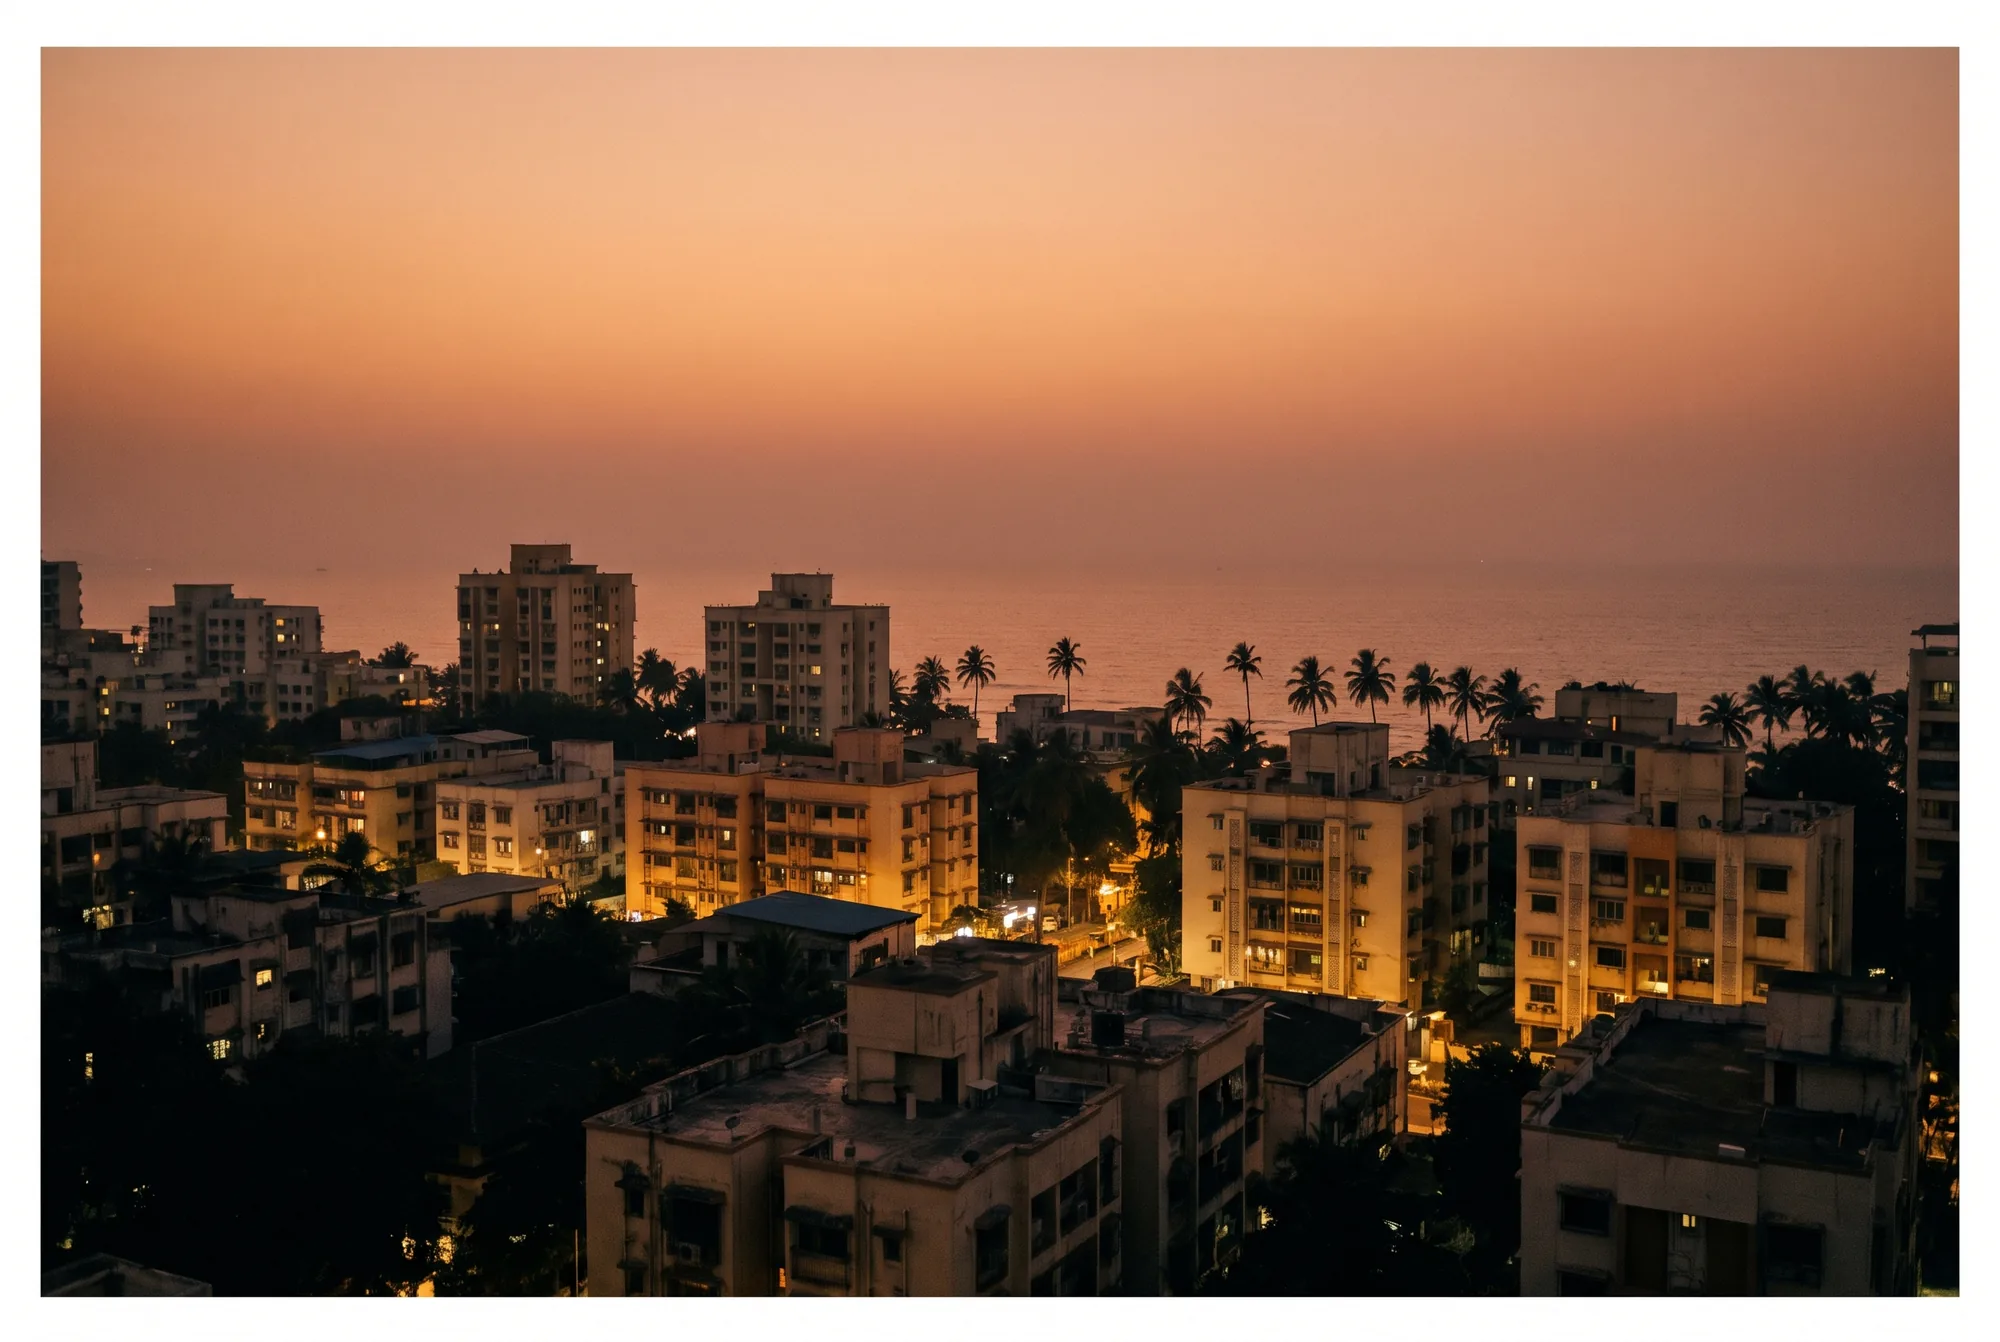
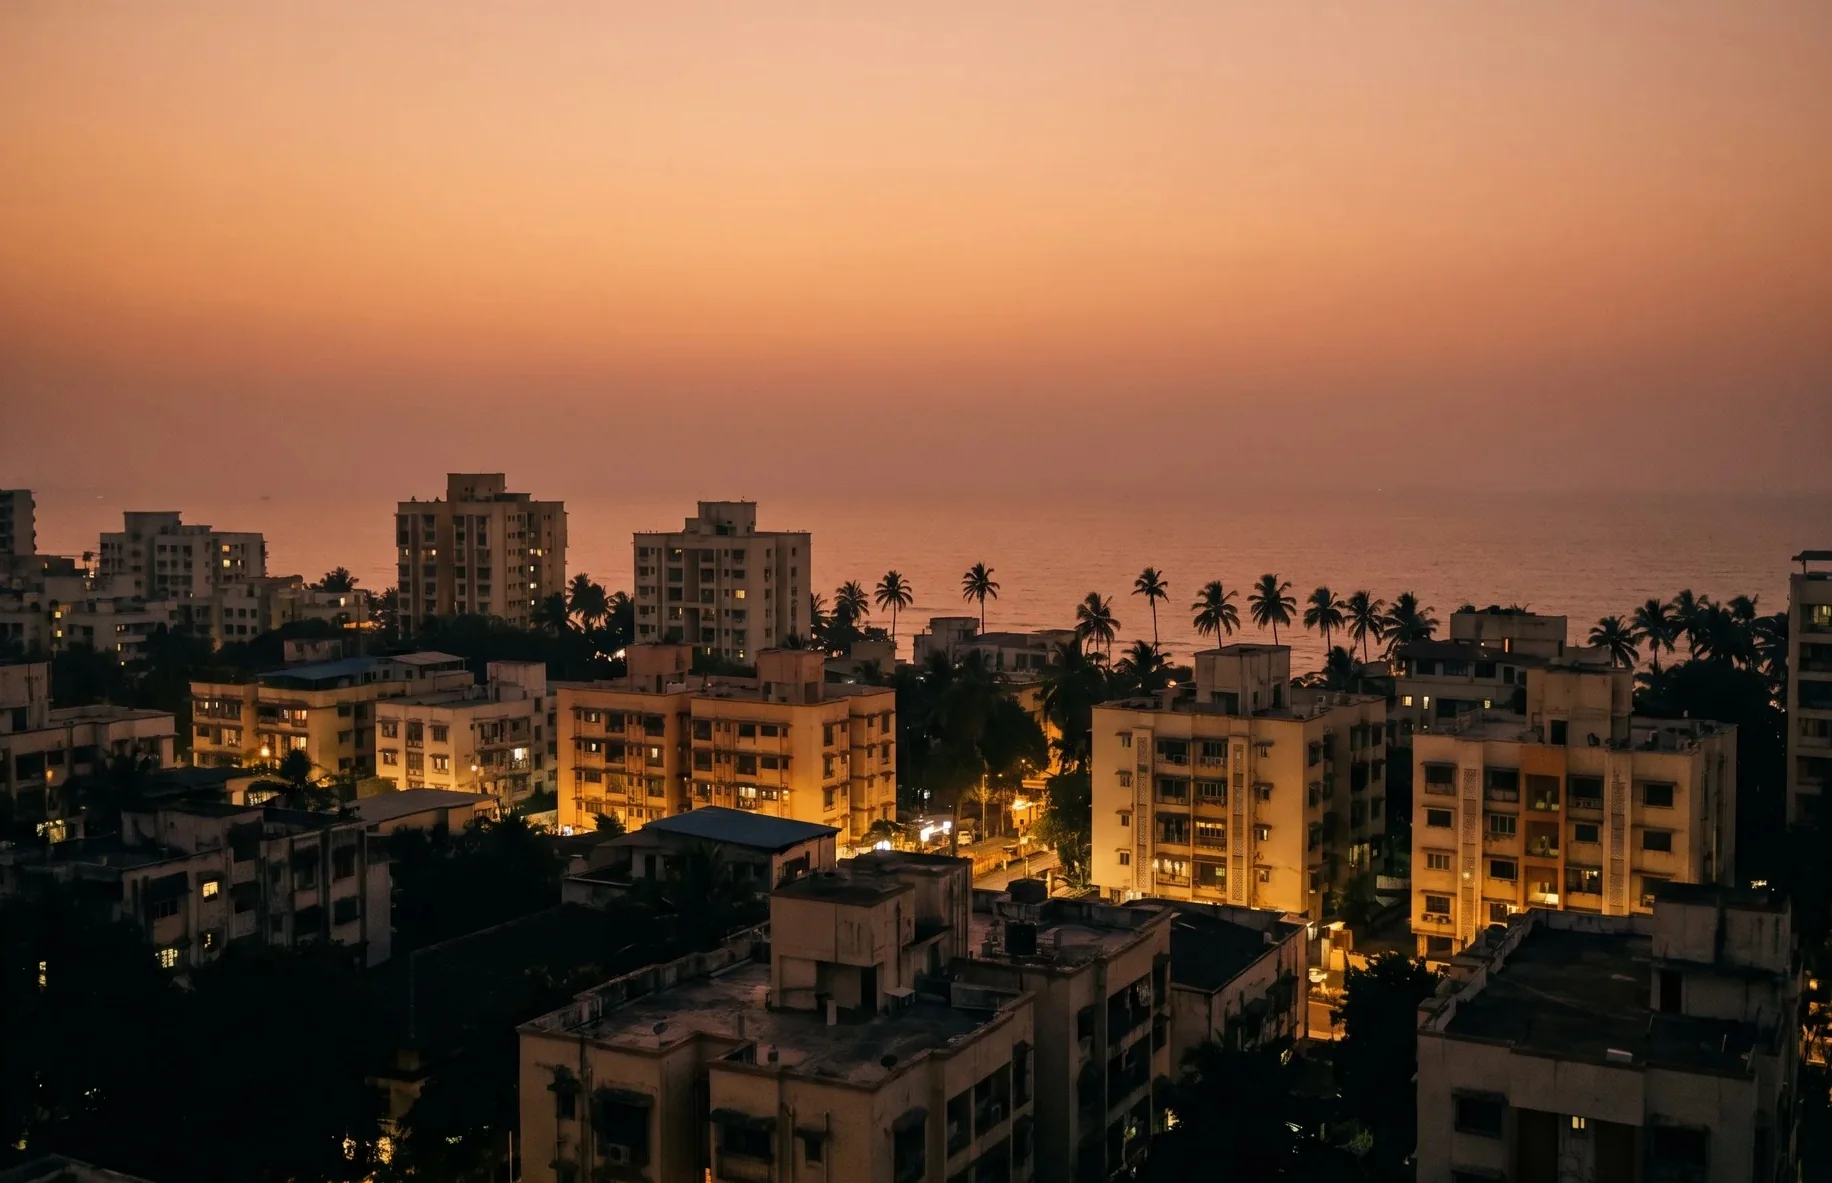
Use the real Mumbai photograph, and show Dr Mehta's face in full
Swaps the generated skyline for the clinic's own photograph of Mumbai at
dusk (public/img/mumbia skyline.jpg), converted to WebP. It is a real
photograph of the city the section is about, and its palette already matches
the page.

The testimonial frame is portrait and its photograph landscape, so the
default centre crop cut Dr Mehta in half at the left edge. The crop is now
told where he stands.

Claude-Session: https://claude.ai/code/session_01QdYArqV2xzRAaNRREP3yNx

diff --git a/app/hair-transplant/ht.css b/app/hair-transplant/ht.css
@@ -1460,6 +1460,9 @@
 
 .hvoi__media img {
   object-fit: cover;
+  /* The frame is portrait and the photograph landscape, so the crop has to be
+     told where the subject is: Dr Mehta stands in its left third. */
+  object-position: 32% center;
 }
 
 .hvoi__q {
